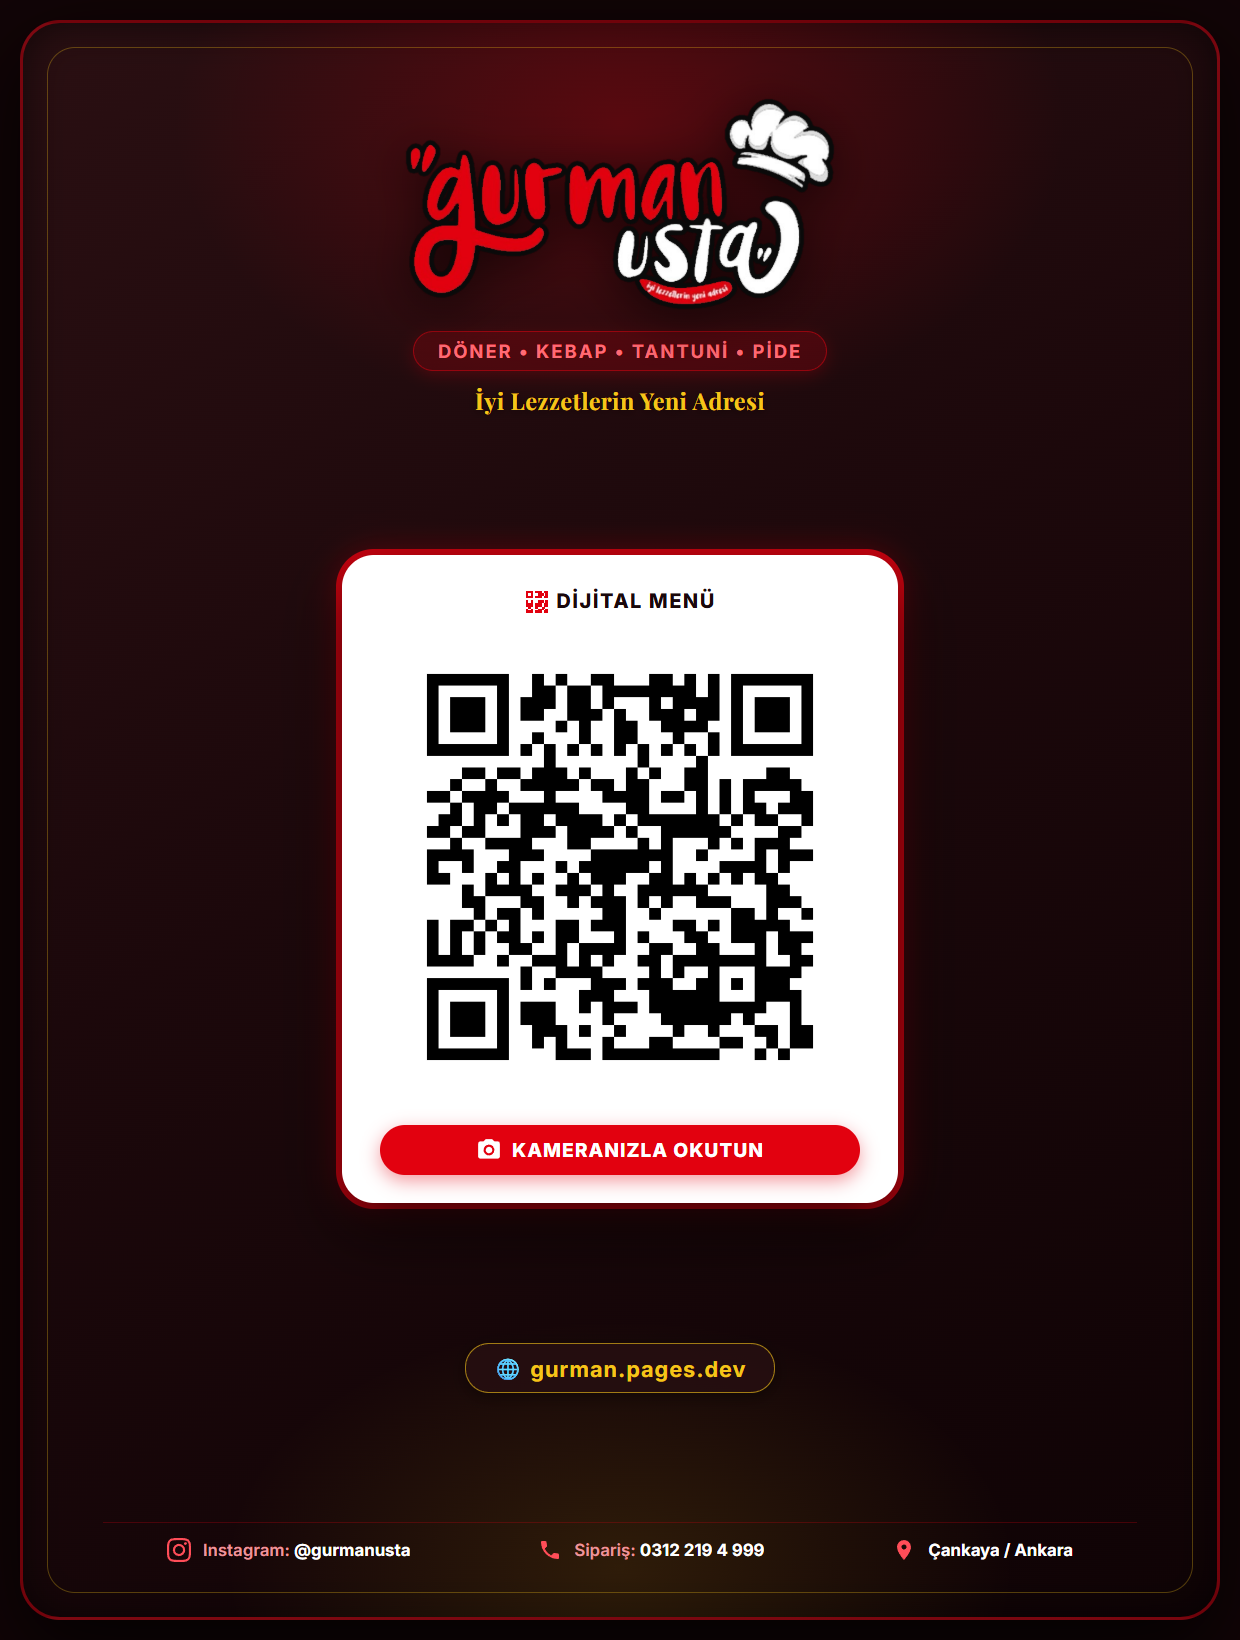
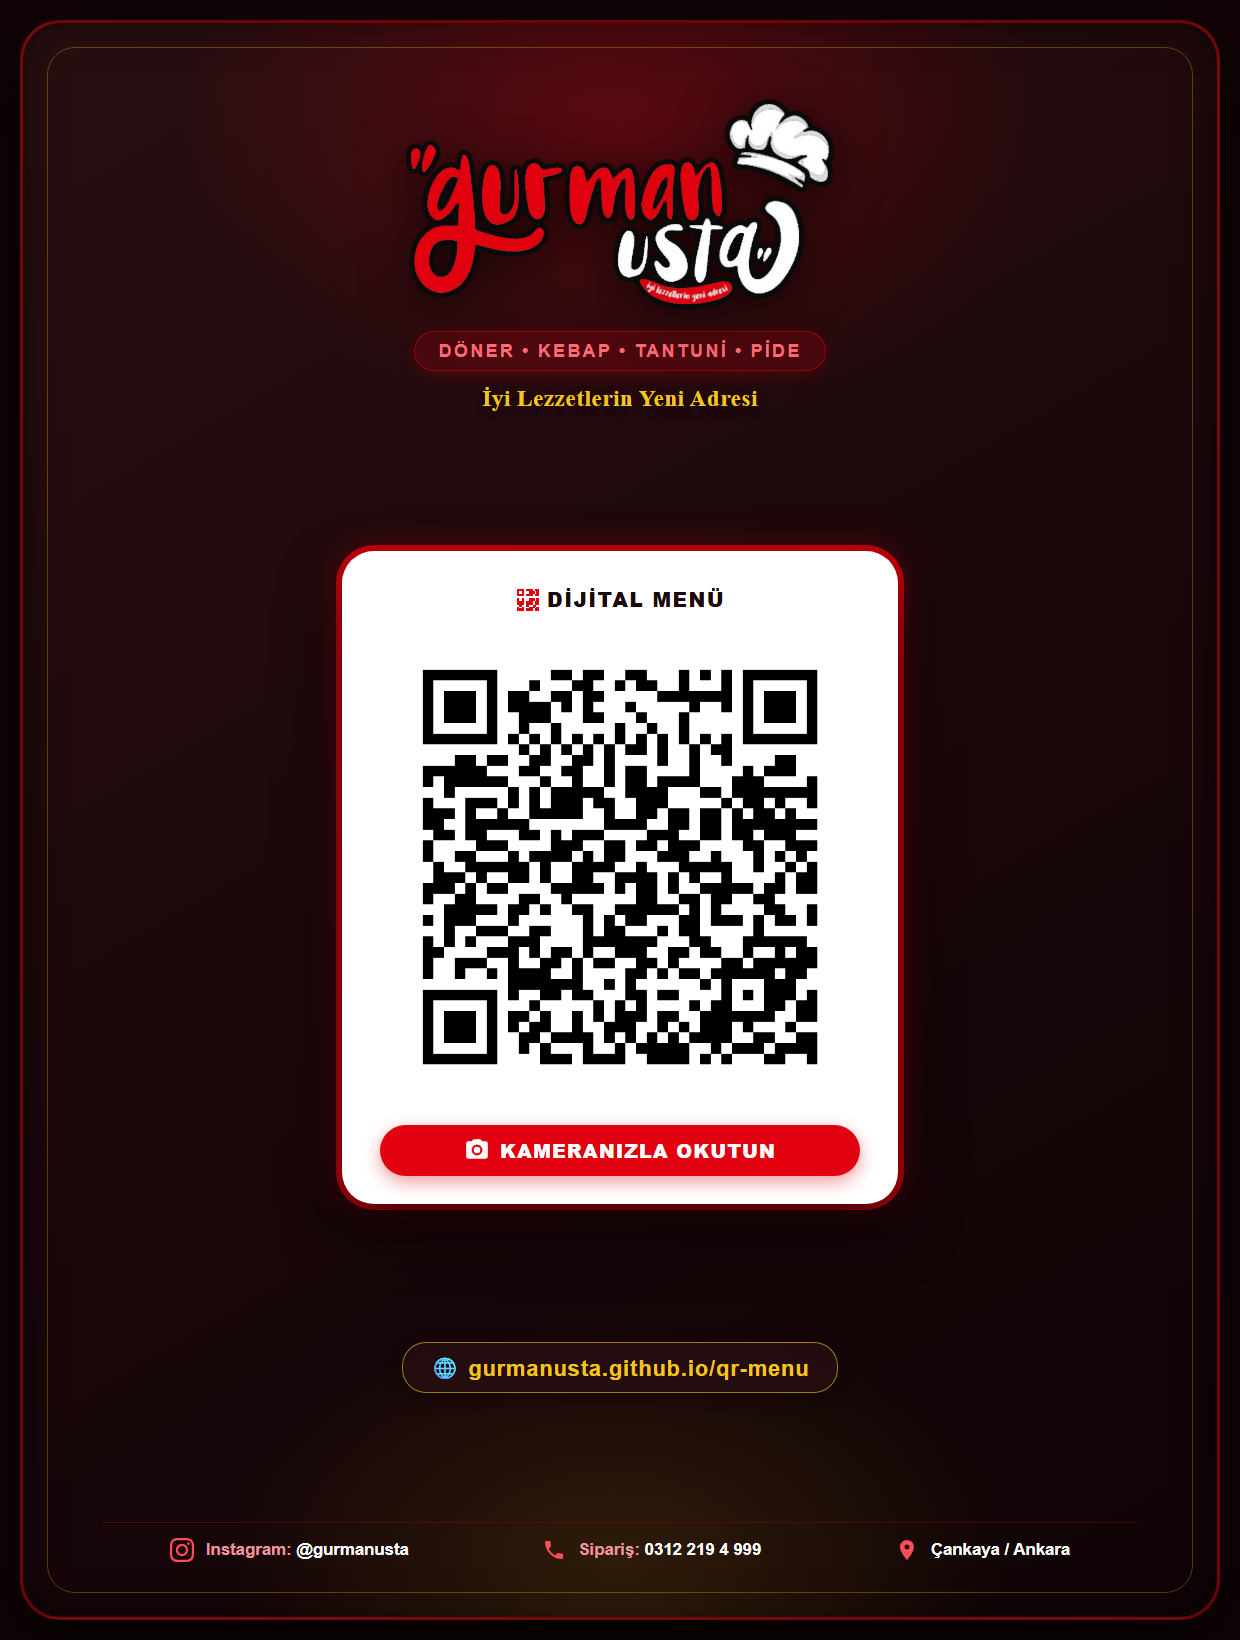
v1.22: GitHub Pages (gurmanusta.github.io/qr-menu) QR kodu ve QR sunum afisi guncellendi

diff --git a/qr-sunum.html b/qr-sunum.html
@@ -300,7 +300,7 @@
 
             <!-- Direct Link -->
             <div class="url-pill">
-                🌐 gurman.pages.dev
+                🌐 gurmanusta.github.io/qr-menu
             </div>
 
             <!-- Footer Details -->

diff --git a/DEVLOG.md b/DEVLOG.md
@@ -8,6 +8,7 @@
 
 | Versiyon | Tarih | Özet |
 |----------|-------|------|
+| [v1.22](#v122) | 2026-09-30 | GitHub Pages'e dönüş (gurmanusta.github.io/qr-menu/), QR kod ve QR sunum afişlerinin kalıcı adrese güncellenmesi |
 | [v1.21](#v121) | 2026-09-30 | Cloudflare Pages (gurman.pages.dev) QR kodu ve masa üstü/sosyal medya QR sunum görseli (qr-sunum.png/html) hazırlandı |
 | [v1.20](#v120) | 2026-09-30 | Gel Al rozetinin satır yüksekliğini etkilemesi engellendi (26px flex kilidi), Gel Al yazısı büyütüldü (0.7rem), fiyat turuncu (#ff9f43) renge çevrildi |
 | [v1.19](#v119) | 2026-09-30 | Gel Al tabelası iki satırlı kırmızı placard tasarımına geçirildi (yeşil/pixel kaldırıldı), tüm sayfa renkleri Gurman Usta logosunun kırmızısına (#e2010f) uyarlandı |
@@ -714,6 +715,32 @@
 
 ---
 
+## v1.22
+**📅 2026-09-30 03:05** · GitHub Pages'e Geri Dönüş, Türkiye İçi ISP Erişim Engeli Analizi ve QR Dosyalarının Güncellenmesi
+
+**Prompt:** tekrar public yaptım. diğer şeylerle uğraşmak daha zahmetli.
+
+**Yapılanlar:**
+- **Türkiye İçi ISP Erişim Analizi & Çözüm:**
+  - `pages.dev` alan adının Türkiye'de BTK / Erişim Sağlayıcıları Birliği (ESB) tarafından engellendiği (`aidiyet.esb.org.tr` middlebox HTTP 307 yanıtı) tespit edildi. Mobil cihazlarda oluşan beyaz ekranın bu protokol kesintisinden kaynaklandığı doğrulandı.
+  - Kullanıcının depoyu tekrar Public yapmasıyla GitHub Pages anında aktifleştirildi (`gh api` ile re-enable edildi).
+  - Türkiye'deki ağ ortamından yapılan testte `https://gurmanusta.github.io/qr-menu/` adresinin HTTP 200 OK yanıtı verdiği ve tüm operatörlerden saniyesinde, engelsiz açıldığı kesinleştirildi.
+- **Kusursuz QR Kod Yenilenmesi (`qr-code.png`):**
+  - Python `qrcode` kütüphanesi ile doğrudan kalıcı ve güvenilir `https://gurmanusta.github.io/qr-menu/` adresine kodlandı.
+  - OpenCV `QRCodeDetector` ile taranarak kodun birebir bu URL'ye çözündüğü doğrulandı.
+- **Yazdırılabilir Sunum Sayfası & Afiş Görseli Güncellemesi (`qr-sunum.html` & `qr-sunum.png`):**
+  - `qr-sunum.html` içerisindeki doğrudan bağlantı hapı `🌐 gurmanusta.github.io/qr-menu` olarak güncellendi.
+  - Headless Edge ile 1240x1640 piksel, yüksek kaliteli ve kristal netliğinde yeni `qr-sunum.png` render edildi.
+- Versiyon kuralı uygulandı (+0.01 ➔ v1.22).
+
+**Dosya Değişiklikleri:**
+- 📝 `qr-code.png` güncellendi (https://gurmanusta.github.io/qr-menu/ kodlandı)
+- 📝 `qr-sunum.html` güncellendi (URL gurmanusta.github.io/qr-menu yapıldı)
+- 📝 `qr-sunum.png` yeniden render edildi (Güncel QR kod ve link ile)
+- 📝 `DEVLOG.md` güncellendi (v1.22 eklendi)
+
+---
+
 ## 📁 Proje Dosya Yapısı
 
 ```
@@ -726,7 +753,7 @@ gurman-qr/
 ├── logo-sodexo.svg     # Resmi Sodexo vektörel logosu
 ├── logo-ticket.png     # Resmi Ticket Restaurant (Edenred) logosu
 ├── logo-setcard.svg    # Resmi Setcard vektörel logosu
-├── qr-code.png         # gurman.pages.dev yönlendiren güncel QR Kod görseli
+├── qr-code.png         # gurmanusta.github.io/qr-menu yönlendiren güncel QR Kod görseli
 ├── qr-sunum.html       # Masa üstü föyü ve sosyal medya için yazdırılabilir QR sunum sayfası
 ├── qr-sunum.png        # Yüksek çözünürlüklü (1240x1640) QR afiş/sunum görseli
 └── DEVLOG.md           # Bu devlog dosyası
@@ -734,7 +761,7 @@ gurman-qr/
 
 ---
 
-## 📊 Mevcut Durum (v1.21)
+## 📊 Mevcut Durum (v1.22)
 
 | Özellik | Durum |
 |---------|-------|
@@ -760,8 +787,8 @@ gurman-qr/
 | Gel-Al Fiyat Entegrasyonu | ✅ Belirtilen ürünlerde Gel Al fiyatları satırı genişletmeyen kırmızı tabela olarak solda eklendi |
 | GitHub CLI (gh) | ✅ Kuruldu ve Giriş Yapıldı |
 | GitHub Repo Push | ✅ Yüklendi (`gurmanusta/qr-menu`) |
-| Cloudflare Pages | 🚀 **CANLI YAYINDA:** `https://gurman.pages.dev/` |
-| QR Kod Görseli | ✅ Güncellendi (`qr-code.png` ➔ `https://gurman.pages.dev/`) |
+| GitHub Pages | 🚀 **CANLI YAYINDA (TÜRKİYE'DE ENGELSİZ VE AÇIK):** `https://gurmanusta.github.io/qr-menu/` |
+| QR Kod Görseli | ✅ Güncellendi (`qr-code.png` ➔ `https://gurmanusta.github.io/qr-menu/`) |
 | QR Sunum Görselleri | ✅ Üretildi (`qr-sunum.png` ve `qr-sunum.html`) |
 | Toplam ürün | 37 (Gel-Al hariç menü kalemi) |
 | Toplam kategori | 8 menü kategorisi (Pideler, Kebaplar, Et Tantuni, Tavuk Tantuni, Et Döner, Tavuk Döner, Çorba, İçecekler) |
